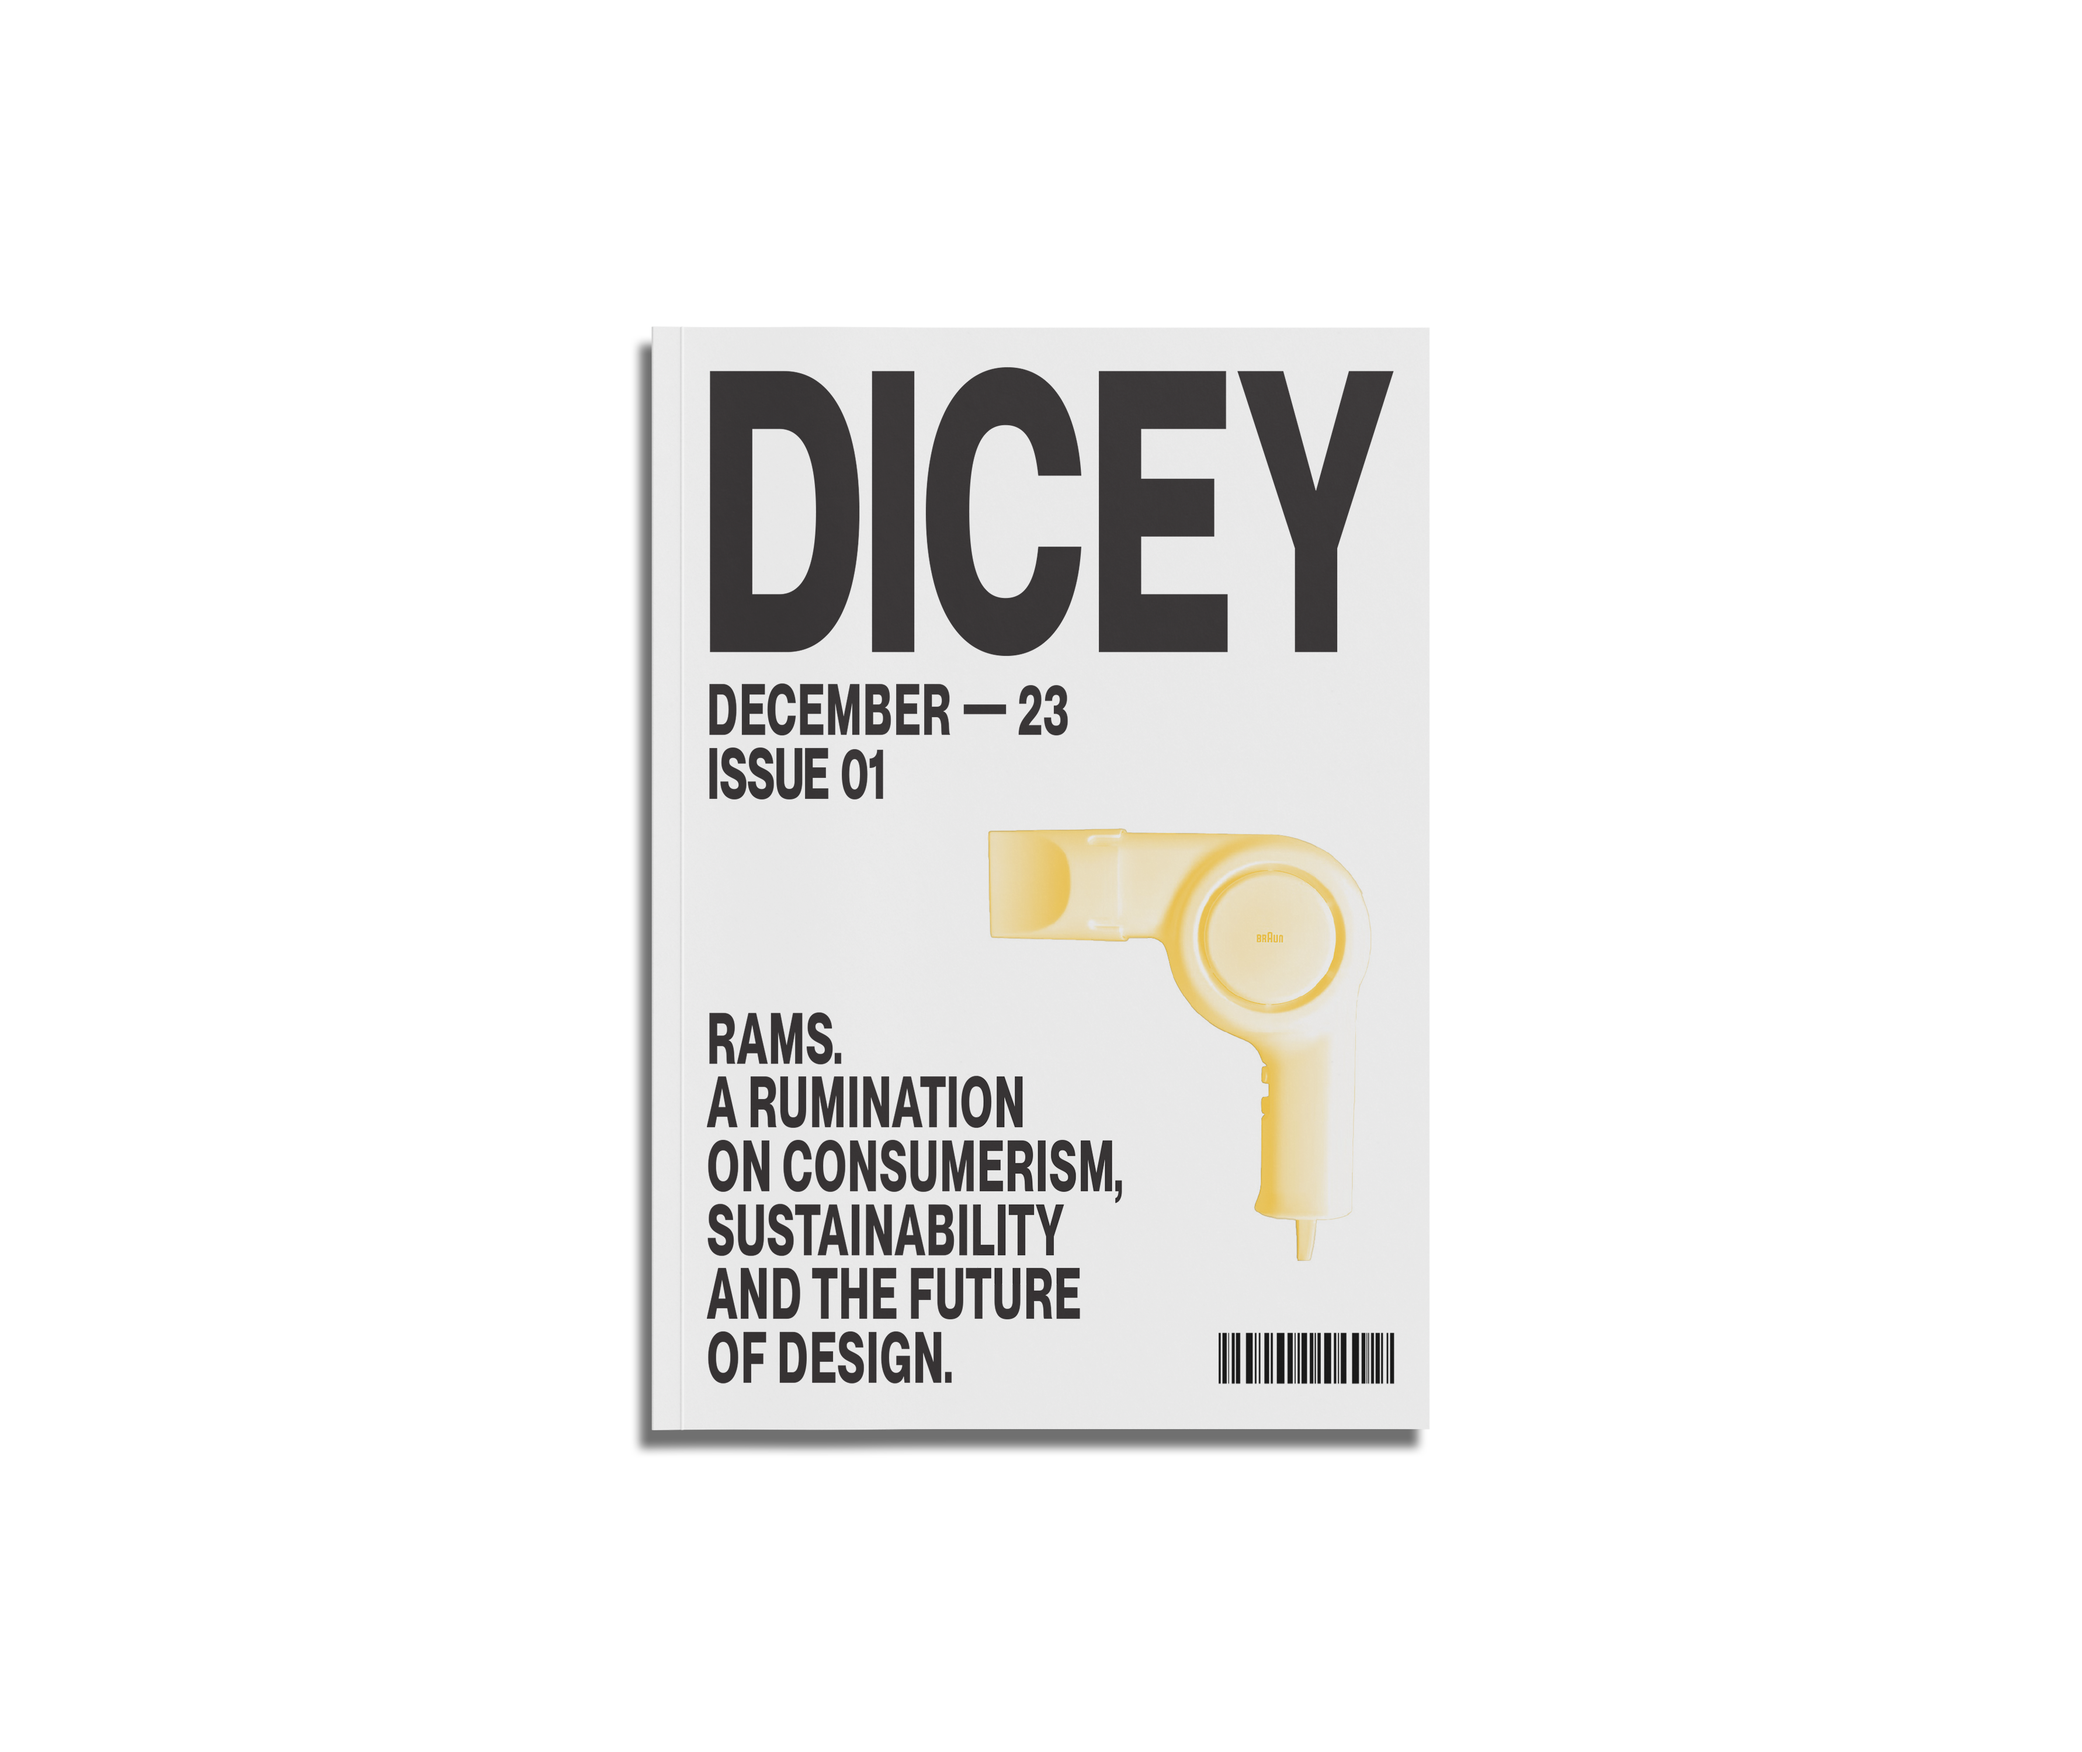
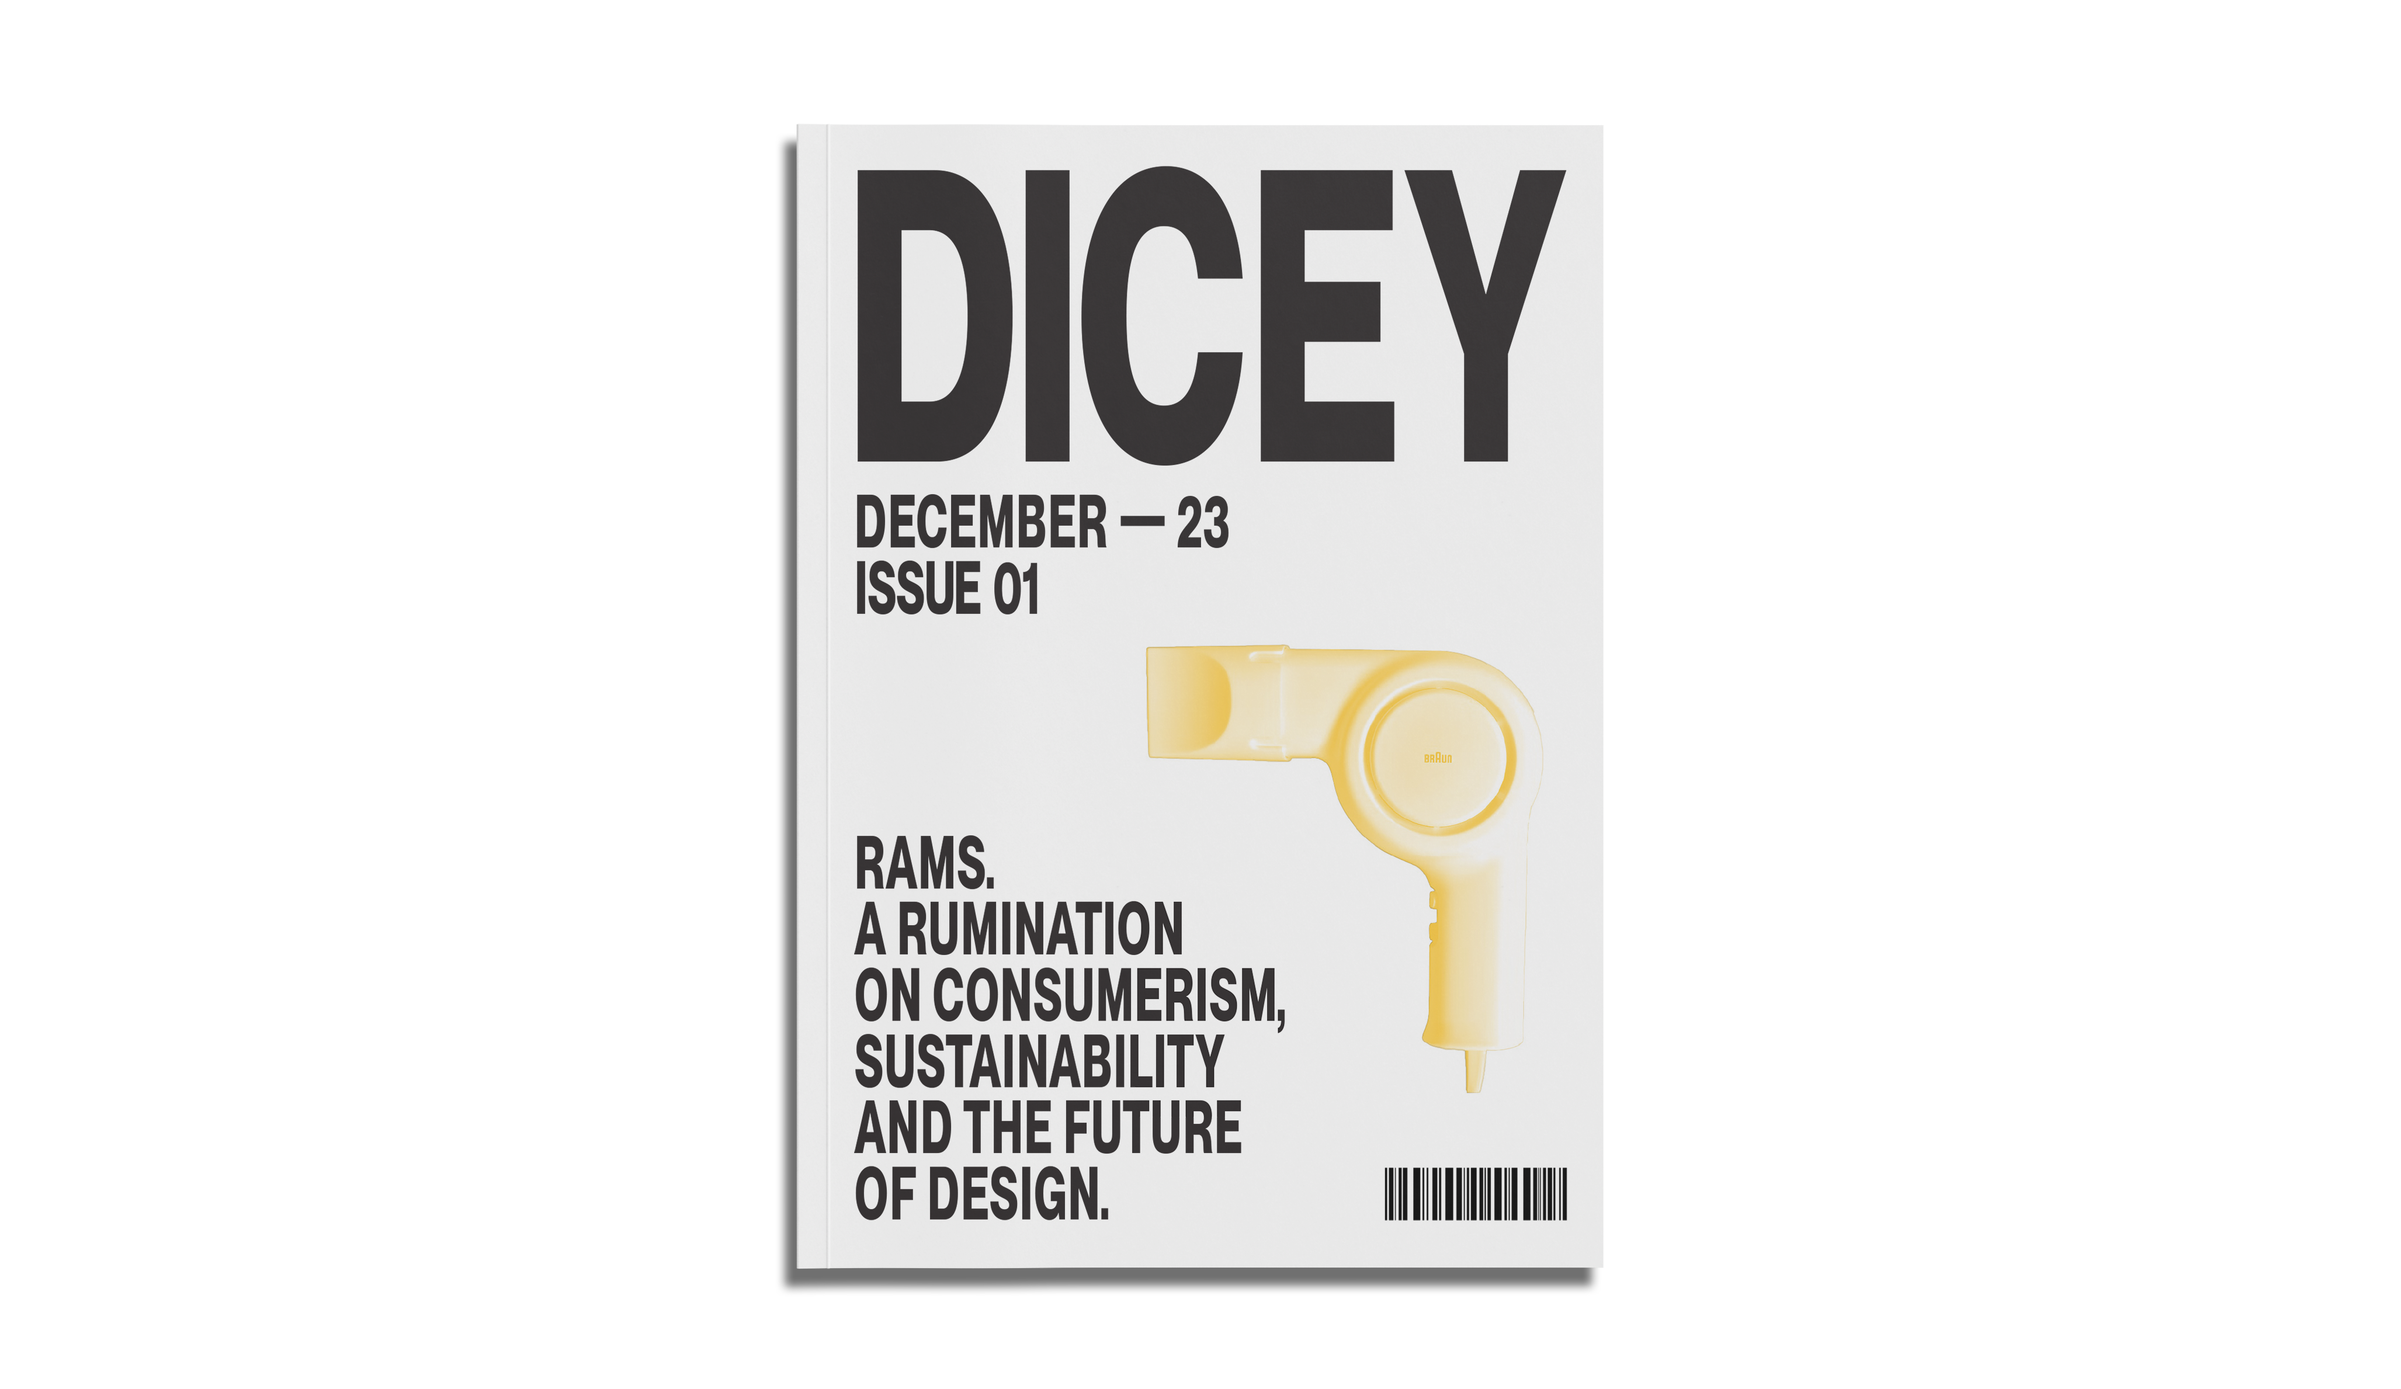
update portfolio

Changed region(s): [[0.2803, 0.0934, 0.6852, 0.9336]]

diff --git a/dicey.html b/dicey.html
@@ -28,19 +28,19 @@
             <img src="images/magazine_mockup_0.png" alt="magazine cover" class="fullscreen-image">
         </div>
         <div class>
-            <img src="images/new_mockup_0.png" alt="magazine cover" class="fullscreen-image">
+            <img src="images/magazine_mockup_1.png" alt="magazine cover" class="fullscreen-image">
         </div>
         <div class>
-            <img src="images/new_mockup_1.png" alt="magazine cover" class="fullscreen-image">
+            <img src="images/magazine_mockup_2.png" alt="magazine cover" class="fullscreen-image">
         </div>
         <div class>
-            <img src="images/new_mockup_2.png" alt="magazine cover" class="fullscreen-image">
+            <img src="images/magazine_mockup_3.png" alt="magazine cover" class="fullscreen-image">
         </div>
         <div class>
-            <img src="images/new_mockup_3.png" alt="magazine cover" class="fullscreen-image">
+            <img src="images/magazine_mockup_4.png" alt="magazine cover" class="fullscreen-image">
         </div>
         <div class>
-            <img src="images/new_mockup_4.png" alt="magazine cover" class="fullscreen-image">
+            <img src="images/magazine_mockup_5.png" alt="magazine cover" class="fullscreen-image">
         </div>
             <p></p>
         </div>

diff --git a/style.css b/style.css
@@ -137,7 +137,7 @@ h2 {
     width: 100%;
     height: auto;
     object-fit: cover;
-    scale: 80%;
+
 }
 
 /* Dicey Mag page */
